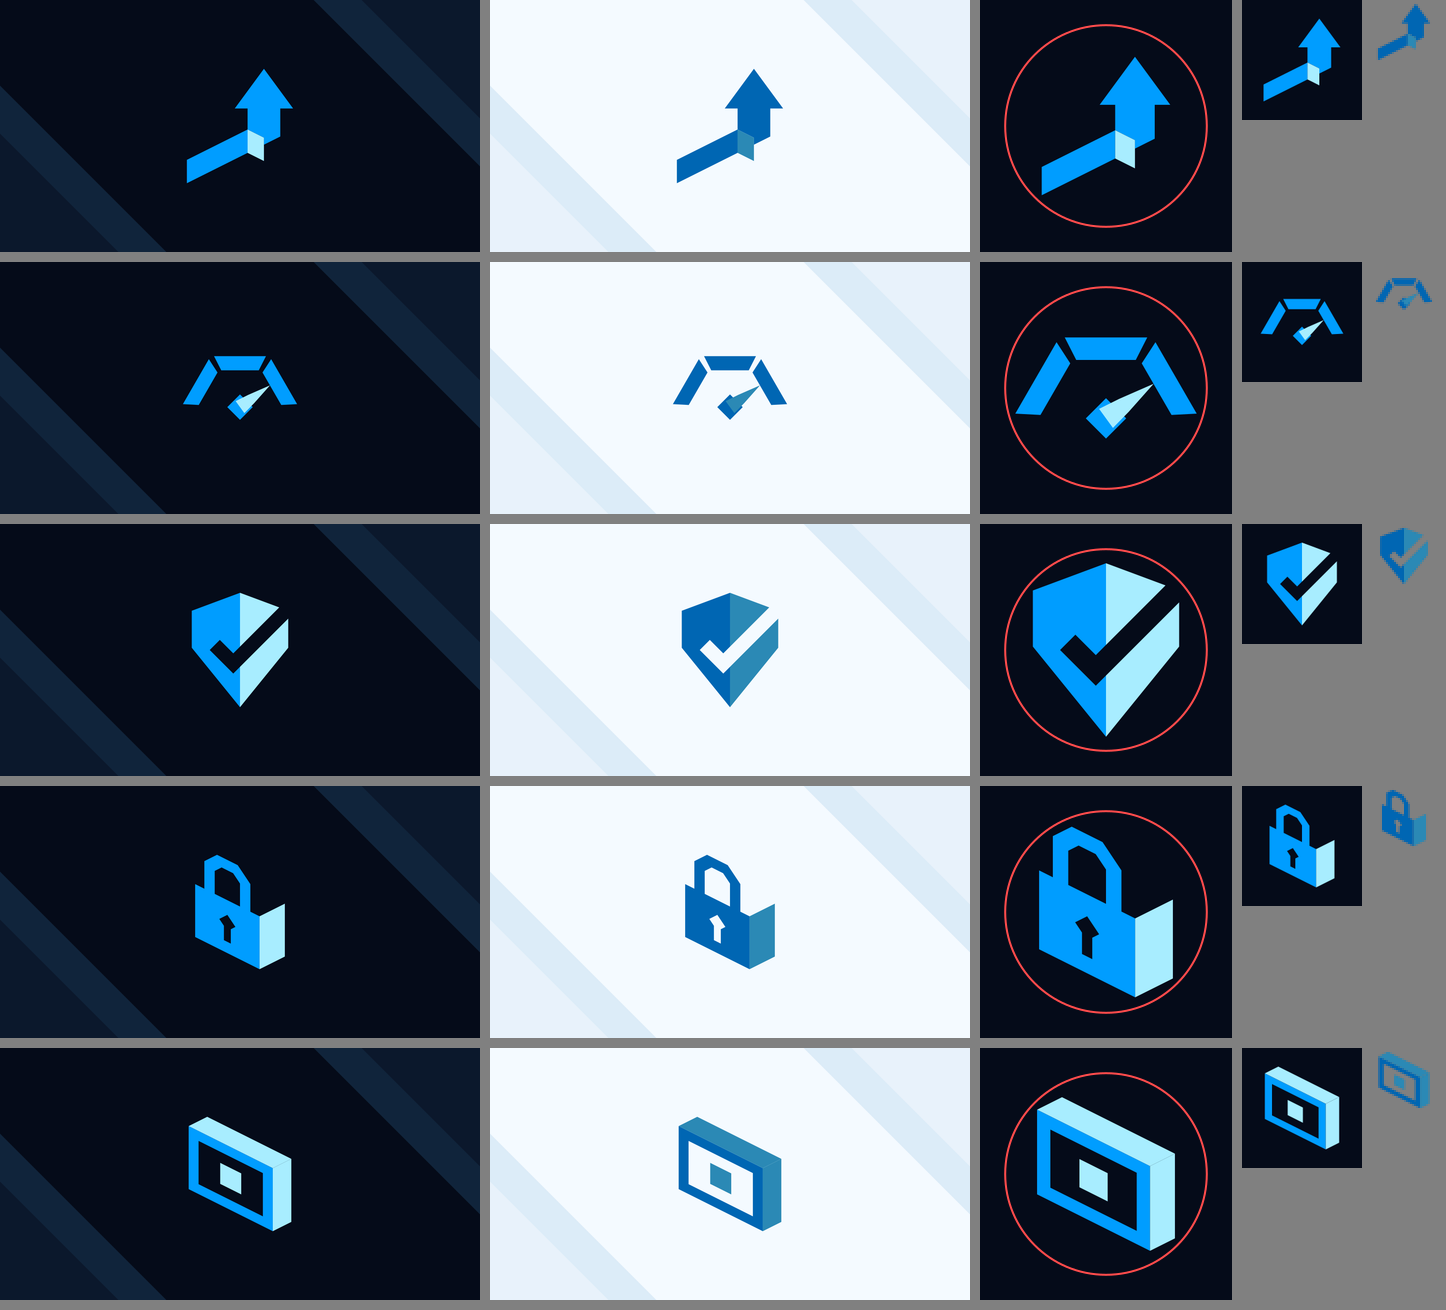
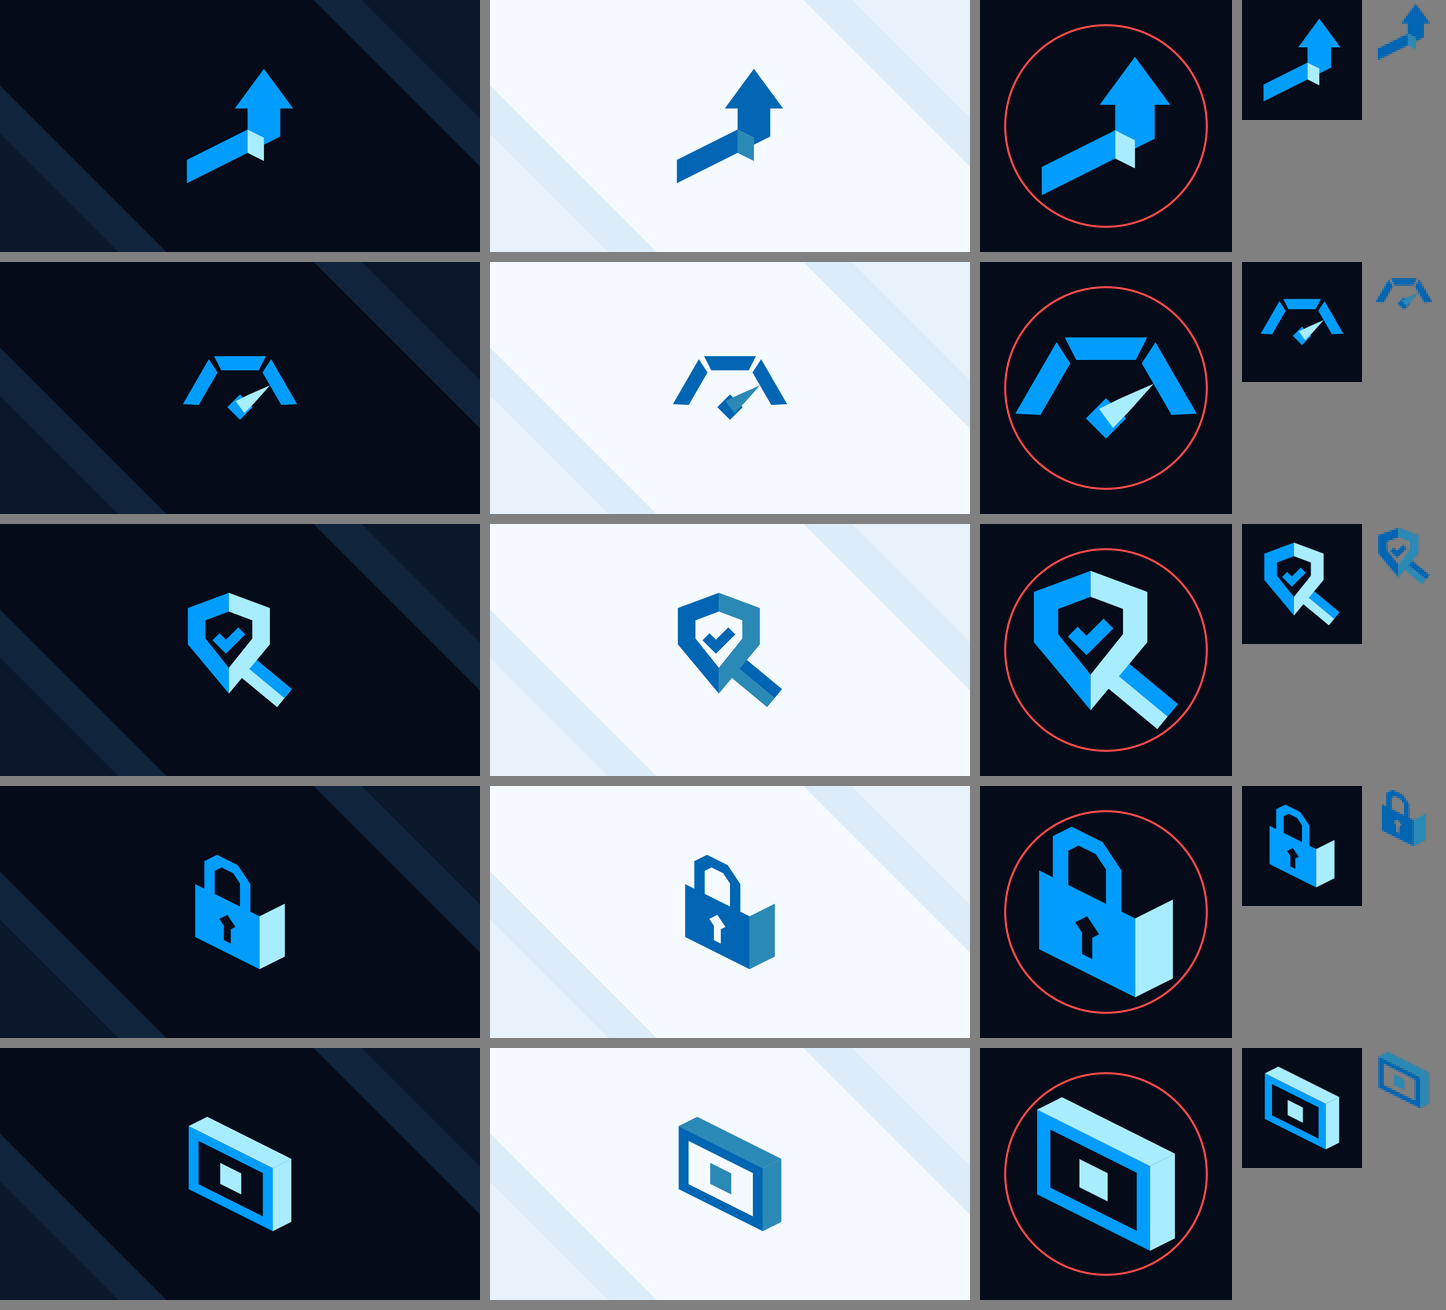
feat(rapold): Auditor proposal combines shield, magnifier and check
The folded shield now forms the lens frame of a magnifier: blue left and
light right half, the check inside the glass and a lengthwise-folded
handle at the lower-right edge. Exports, provenance and review sheets
regenerated.

diff --git a/brands/rapold/README.md b/brands/rapold/README.md
@@ -37,7 +37,7 @@ Die folgenden Signets sind **Vorschläge** (`status: "proposal"`), keine Freigab
 |---|---|---|---|---|
 | `lotse` | Lotse · lotse.rapold.io | Isometrische Etagen mit Route | Wegband, das um die Ecke aufsteigt und in einer Pfeilspitze endet | [lotse.svg](assets/logos/lotse.svg) |
 | `cockpit` | Cockpit · cockpit.rapold.io | Tacho mit Nadel | Dreiteilige Faltskala mit Rautenachse und heller Nadel | [cockpit.svg](assets/logos/cockpit.svg) |
-| `auditor` | Auditor · auditor.rapold.io | Schild mit Prüfhaken | Senkrecht gefaltetes Schild mit freigestelltem Haken | [auditor.svg](assets/logos/auditor.svg) |
+| `auditor` | Auditor · auditor.rapold.io | Schild mit Prüfhaken | Schild als Lupenrahmen: senkrecht gefaltet, Prüfhaken im Glas, gefalteter Griff | [auditor.svg](assets/logos/auditor.svg) |
 | `auth` | Rapold Auth · auth.rapold.io | Pulslinie | Isometrisches Schloss; die Pulslinie wurde bewusst ersetzt, weil der Dienst Zugang darstellt | [auth.svg](assets/logos/auth.svg) |
 | `pocketforge` | PocketForge · game.rapold.io | 4:3-Bildschirm mit einem Pixel | Isometrischer 4:3-Bildschirm mit leuchtendem Pixel | [pocketforge.svg](assets/logos/pocketforge.svg) |
 
